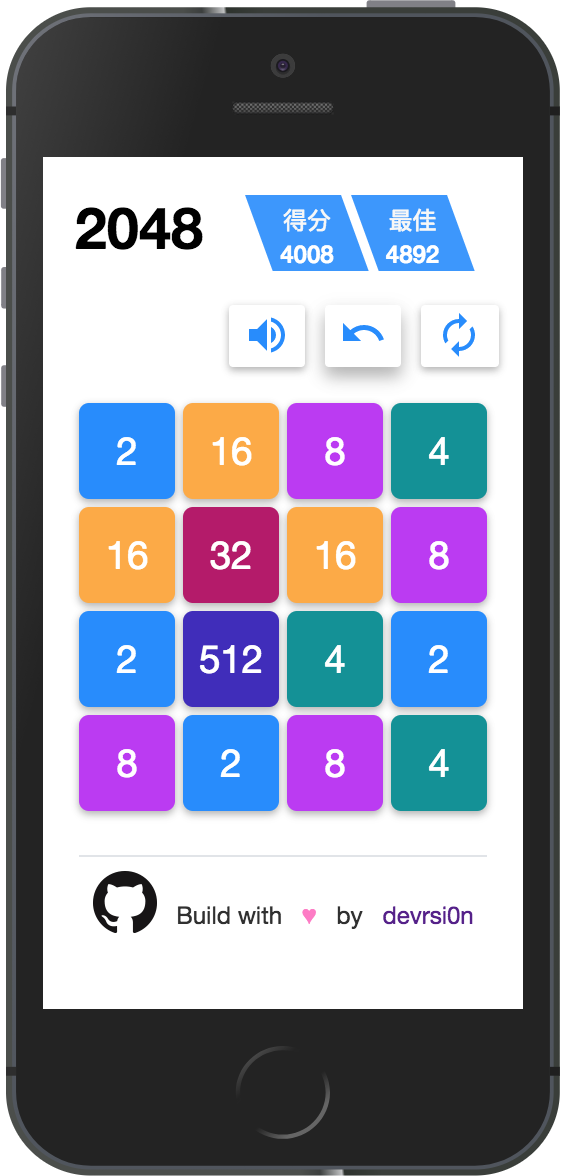
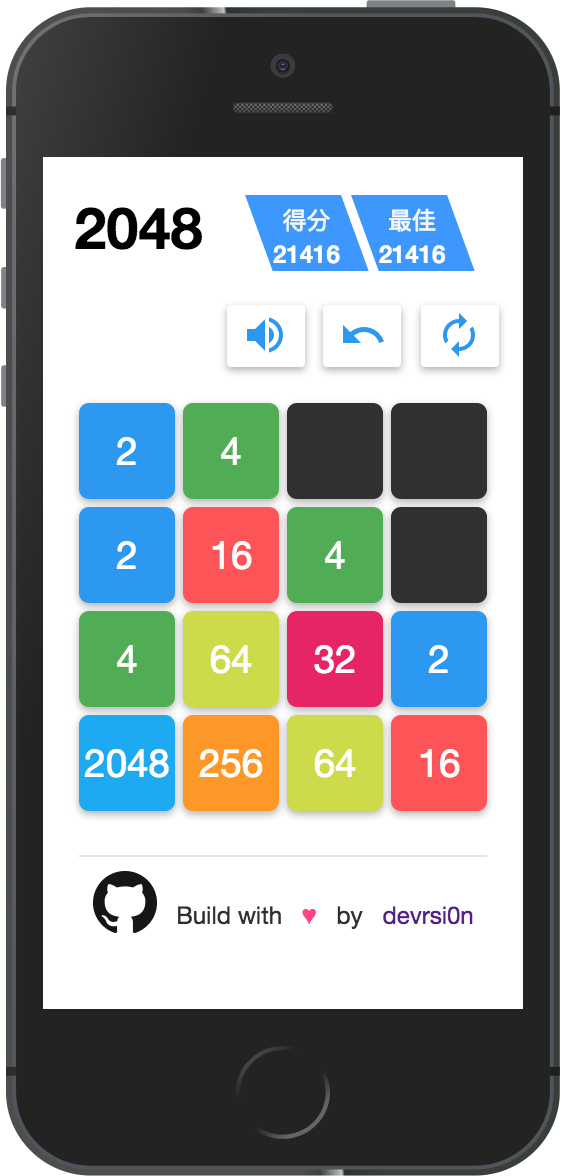
Ref: use matrial design color

diff --git a/src/assets/styles/vars.scss b/src/assets/styles/vars.scss
@@ -1,28 +1,27 @@
-$red: #ff5964;
-$pink: lighten(#880e4f, 10%);
-$purple: #bd2df5;
-$deep-purple: lighten(#311b92, 10%);
-$indigo: lighten(#1a237e, 10%);
-$blue: #1d89ff;
-$light-blue: lighten(#1d89ff, 20%);
-$cyan: lighten(#006064, 10%);
-$teal: lighten(#004d40, 10%);
-$green: #28b78d;
-$light-green: lighten(#28b78d, 20%);
-$lime: lighten(#827717, 10%);
-$yellow: #feab3a;
-$amber: lighten(#ff6f00, 10%);
-$orange: lighten(#e65100, 10%);
-$deep-orange: lighten(#bf360c, 10%);
-$brown: lighten(#3e2723, 10%);
-$grey: lighten(#212121, 10%);
-$blue-grey: lighten(#263238, 10%);
+$red: #ff5252;
+$pink: #e91e63;
+$purple: #9c27b0;
+$deep-purple: #673ab7;
+$indigo: #3f51b5;
+$blue: #2196f3;
+$light-blue: #03a9f4;
+$cyan: #00bcd4;
+$teal: #009688;
+$green: #4caf50;
+$light-green: #8bc34a;
+$lime: #cddc39;
+$yellow: #ffeb3b;
+$amber: #ffc107;
+$orange: #ff9800;
+$deep-orange: #ff5722;
+$brown: #795548;
+$grey: #9e9e9e;
 
 $white: #fff;
 $gray: #f7f7f7;
 $black: #303030;
 $light-black: #666;
-$peach: #ff79c6;
+$peach: #ff4081;
 
 $btn-bg: $black;
 $btn-color: $white;

diff --git a/src/components/Cell/cell.scss b/src/components/Cell/cell.scss
@@ -31,7 +31,7 @@ $mobile-len: 20vw;
 }
 
 .color-4 {
-  background-color: $cyan;
+  background-color: $green;
 }
 
 .color-8 {
@@ -39,7 +39,7 @@ $mobile-len: 20vw;
 }
 
 .color-16 {
-  background-color: $yellow;
+  background-color: $red;
 }
 
 .color-32 {
@@ -47,7 +47,7 @@ $mobile-len: 20vw;
 }
 
 .color-64 {
-  background-color: $green;
+  background-color: $lime;
 }
 
 .color-128 {
@@ -71,9 +71,9 @@ $mobile-len: 20vw;
 }
 
 .color-4096 {
-  background-color: $red;
+  background-color: $yellow;
 }
 
 .color-8192 {
-  background-color: $lime;
+  background-color: $cyan;
 }

diff --git a/public/index.html b/public/index.html
@@ -3,7 +3,7 @@
   <head>
     <meta charset="utf-8">
     <meta name="viewport" content="width=device-width, initial-scale=1, maximum-scale=1, shrink-to-fit=no">
-    <meta name="theme-color" content="#1d89ff">
+    <meta name="theme-color" content="#2196F3">
     <!--
       manifest.json provides metadata used when your web app is added to the
       homescreen on Android. See https://developers.google.com/web/fundamentals/engage-and-retain/web-app-manifest/
